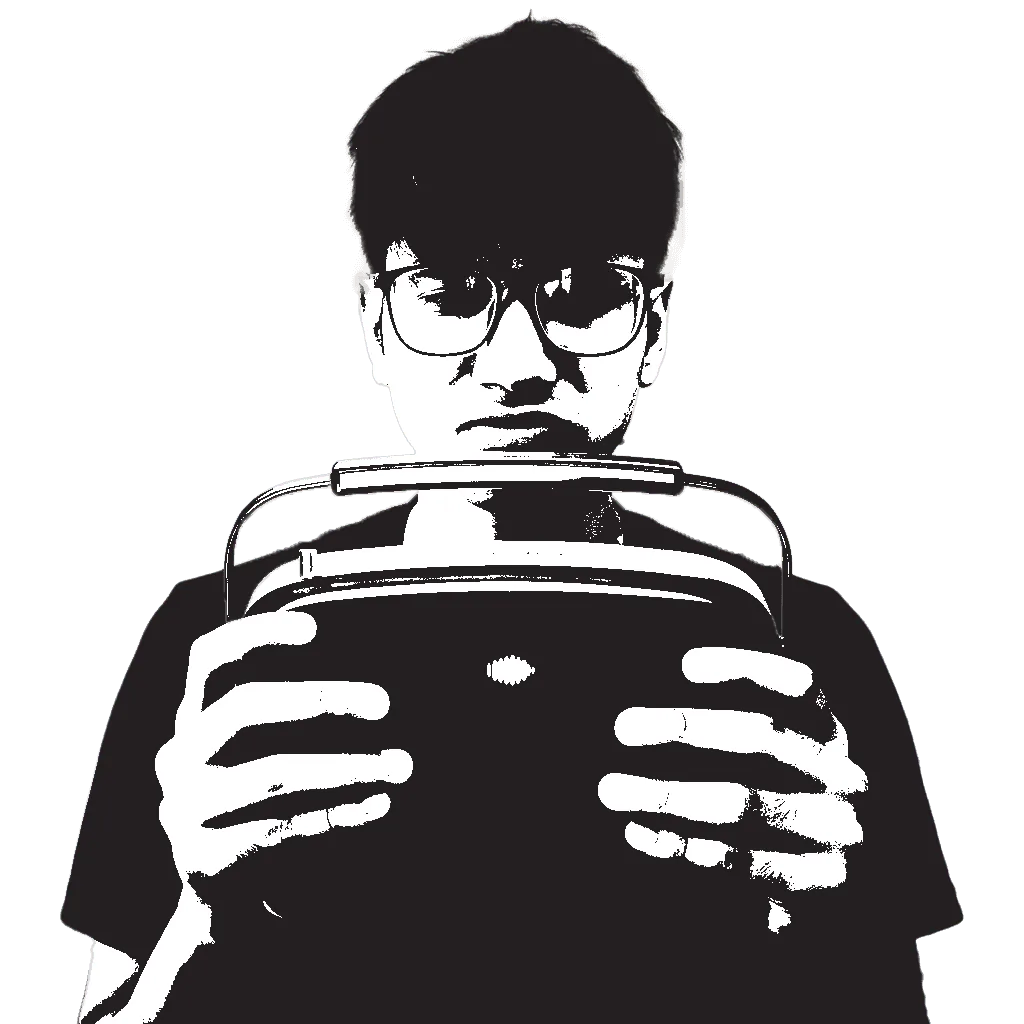
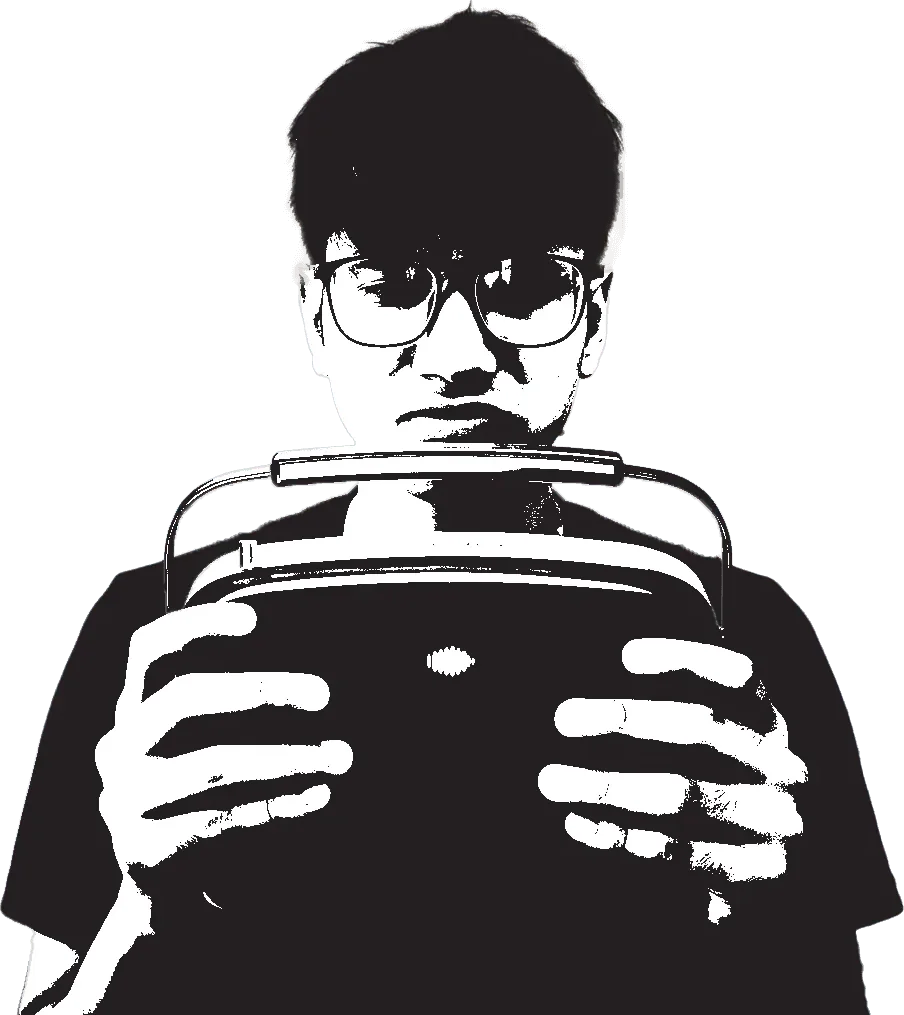
Carvaan: consistent text+portrait layout for 'Why this works' and closing
- Headings moved into the text column so they sit with their content
- Both portraits trimmed and shown at the same height, right-aligned
- Restore red 'not the end.'

Claude-Session: https://claude.ai/code/session_01XbRpe75oocsijDTy4CTJgQ

Changed region(s): [[0.0, 0.0, 1.0, 1.0], [0.4646, 0.6414, 0.5265, 0.6719], [0.3407, 0.6719, 0.4027, 0.7025]]

diff --git a/carvaan.html b/carvaan.html
@@ -496,7 +496,7 @@ body.cv-noside .side{opacity:0;pointer-events:none}
 .cv-formula i{font-style:normal;color:var(--sub)}
 .cv-formula span:last-child{background:var(--ink);color:#fff}
 
-.cv-close{display:grid;grid-template-columns:minmax(0,1fr) minmax(160px,230px);gap:clamp(24px,4vw,56px);align-items:end;margin-top:6px}
+.cv-close{display:grid;grid-template-columns:minmax(0,1fr) minmax(160px,230px);gap:clamp(24px,4vw,56px);align-items:center;margin-top:0}
 .cv-close figure{margin:0}
 .cv-close img{display:block;width:100%;height:auto}
 .cv-end{margin-top:28px;font-family:"Special Elite","Courier New",monospace;font-size:clamp(28px,4vw,46px);line-height:1.05;color:var(--ink)}
@@ -589,7 +589,7 @@ body.cv-noside .side{opacity:0;pointer-events:none}
 .cv-dfi__c--key p{font-weight:400;color:var(--ink)}
 .cv-goal b,.cv-dial b,.cv-old figcaption b,.cv-sol__k,.cv-dfi__k,.cv-callout small,.cv-hmw__list li::before{font-weight:400}
 .cv-old figcaption b{color:var(--ink)}
-.cover--cv .cv-mark b,.cv-end b{font-weight:400}
+.cover--cv .cv-mark b,.cv-end b{font-weight:400;color:#F2553D}
 .content h3,.content h2{font-weight:700}
 
 /* device section: heading stacked over its line; "Why Carvaan" as its own block */
@@ -612,6 +612,18 @@ body.cv-noside .side{opacity:0;pointer-events:none}
 @keyframes cvfade{from{opacity:0;transform:translateY(6px)}to{opacity:1;transform:none}}
 @media (max-width:600px){.cv-tab{font-size:13.5px}.cv-tab span{font-size:10px;letter-spacing:.06em}}
 @media (prefers-reduced-motion:reduce){.cv-tabs .cv-sol{animation:none}}
+
+.cv-works{margin-top:clamp(40px,5.5vw,64px)}
+.cv-works .sub__h{margin-top:0}
+.cv-works .cv-formula{margin-top:16px}
+
+/* text + portrait pairs share one layout and one image size */
+.cv-pair{grid-template-columns:minmax(0,1fr) minmax(0,300px);align-items:center;gap:clamp(24px,5vw,72px)}
+.cv-pair .cv-art{justify-self:end;width:100%}
+.cv-pair .cv-art img{display:block;height:clamp(220px,24vw,300px);width:auto;max-width:100%;margin-left:auto;object-fit:contain}
+.cv-pair .sec__h,.cv-pair .sub__h{margin-top:10px}
+.cv-pair .eyebrow + .sec__h{margin-top:12px}
+@media (max-width:840px){.cv-pair{grid-template-columns:1fr}.cv-pair .cv-art{justify-self:center;width:auto}.cv-pair .cv-art img{margin:0 auto;height:240px}}
 </style>
 
 
@@ -865,9 +877,9 @@ body.cv-noside .side{opacity:0;pointer-events:none}
           </div>
         </div>
 
-        <h3 class="sub__h">Why this works</h3>
-        <div class="cv-duo">
+        <div class="cv-duo cv-pair cv-works">
           <div>
+            <h3 class="sub__h">Why this works</h3>
             <div class="cv-formula"><span>Clarity</span><i>+</i><span>Nostalgia</span><i>+</i><span>Control</span></div>
             <ul class="cv-list cv-list--ok" style="margin-top:18px">
               <li>No more blind clicking</li>
@@ -882,10 +894,10 @@ body.cv-noside .side{opacity:0;pointer-events:none}
 
       <!-- 11 — CLOSE -->
       <section id="reflection" class="sec sec--close">
-        <div class="eyebrow">Looking back</div>
-        <h2 class="sec__h">What this project taught me</h2>
-        <div class="cv-close">
+        <div class="cv-duo cv-pair">
           <div>
+            <div class="eyebrow">Looking back</div>
+            <h2 class="sec__h">What this project taught me</h2>
             <p class="prose">UX is not just problem-solving — it’s <mark class="hl">perspective-shifting</mark>.</p>
             <ul class="cv-list" style="margin-top:18px">
               <li>Every design decision must connect to people’s emotions.</li>
@@ -894,7 +906,7 @@ body.cv-noside .side{opacity:0;pointer-events:none}
               <li>Design is not linear — doubt and frustration are part of synthesis.</li>
             </ul>
           </div>
-          <figure><img src="carvaan/me-closing.webp" alt="Tanish, thinking" loading="lazy"></figure>
+          <figure class="cv-art"><img src="carvaan/me-closing.webp" alt="Tanish, thinking" loading="lazy"></figure>
         </div>
         <p class="cv-end">The beginning, <b>not the end.</b></p>
         <p class="prose">This project opened up new possibilities for reimagining vintage music devices. In Studio II, I’ll continue refining the interface, exploring motion behaviour, and prototyping the dual-dial interactions.</p>
